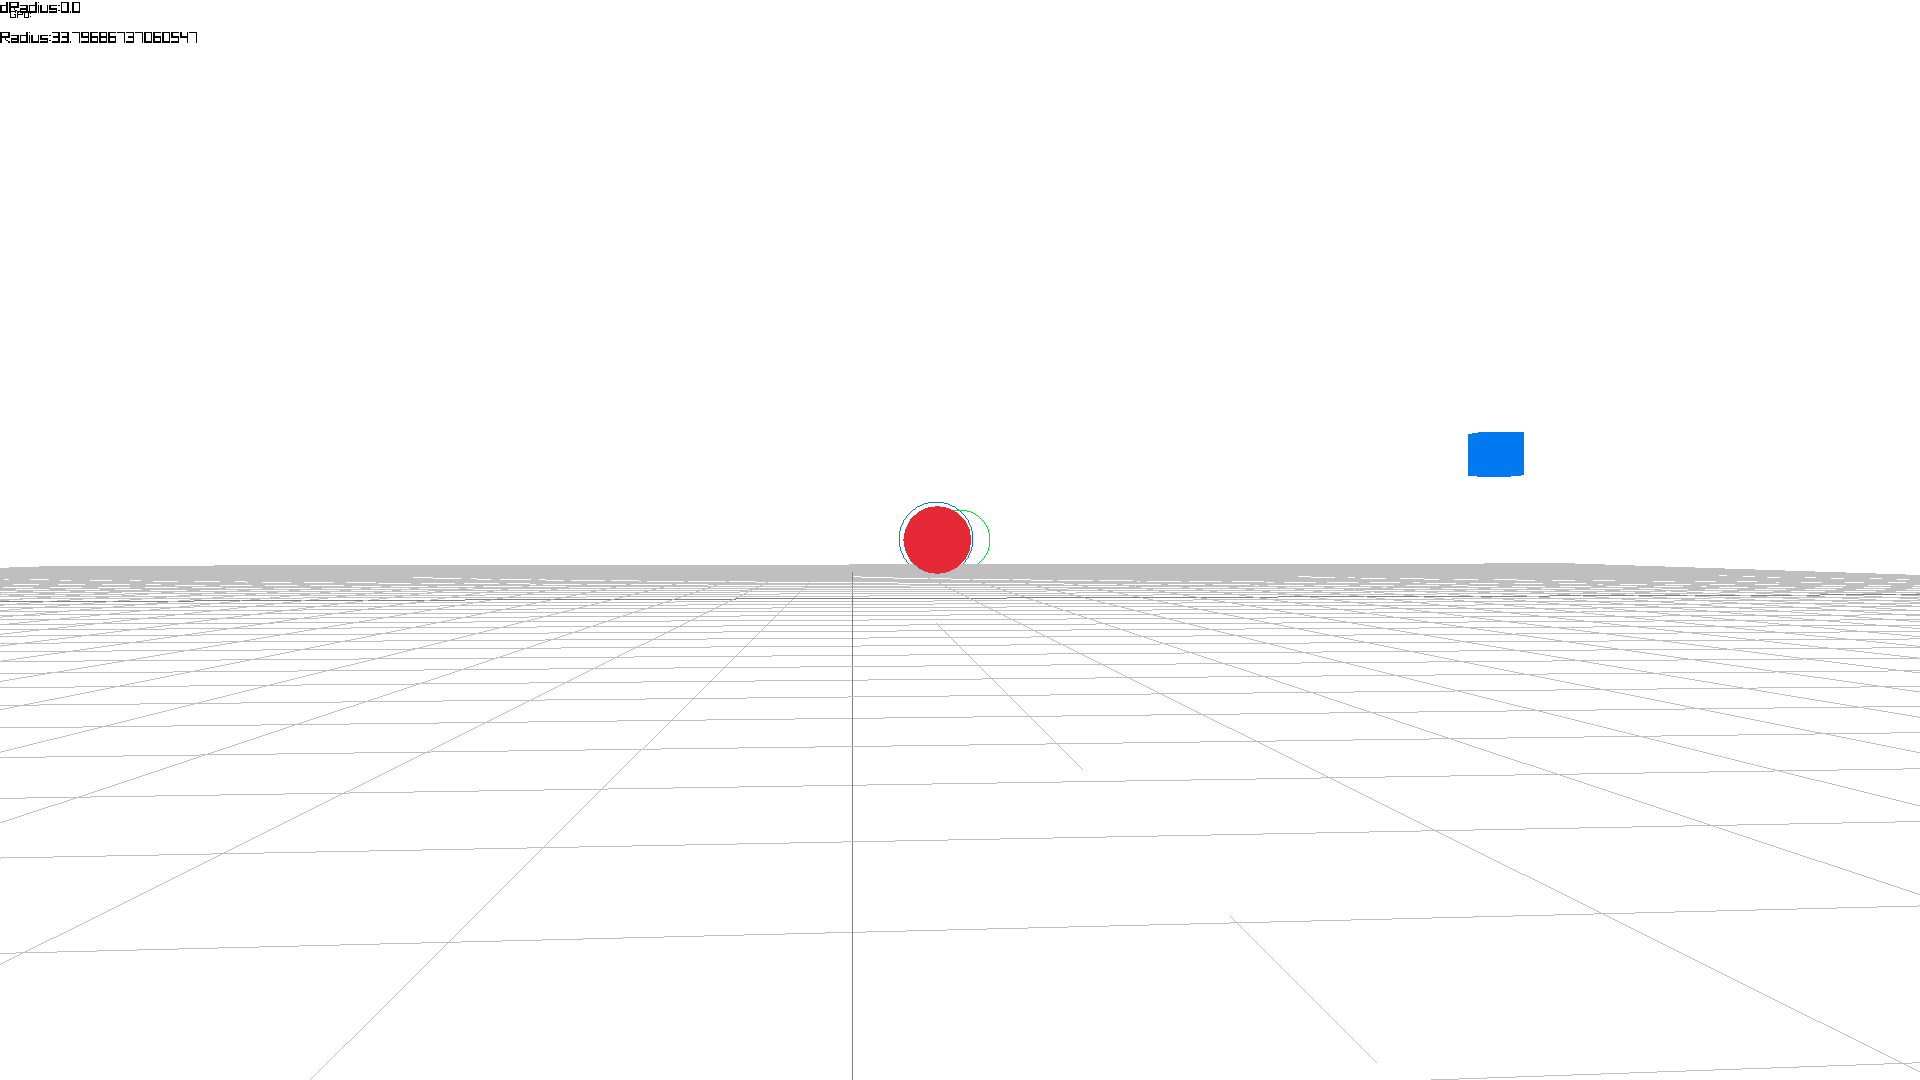
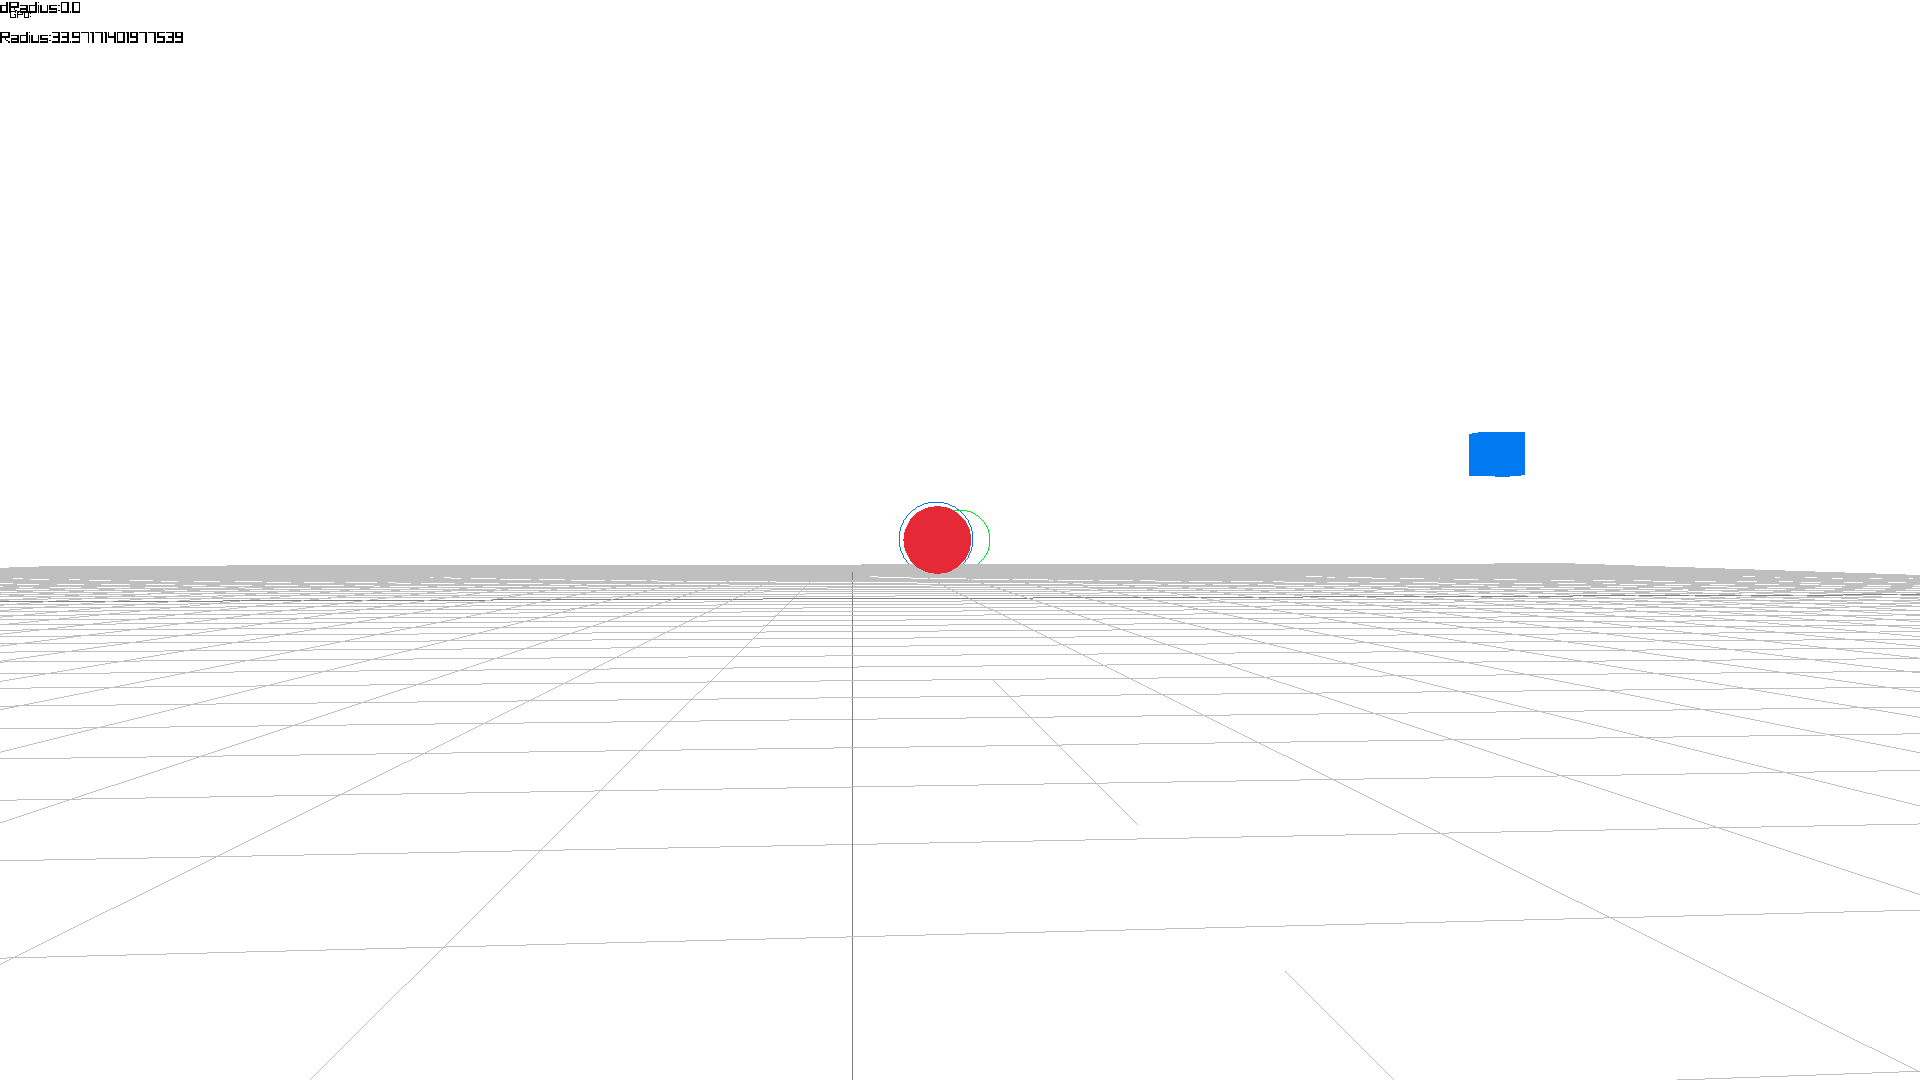
Update

diff --git a/drone_track.py b/drone_track.py
@@ -10,7 +10,7 @@ import control as ctrl
 
 Speed = 10
 Should_quit = False
-Track_Ball = False
+Track_Ball = True
 Abort = False
 Set_Radius = False
 font = None
@@ -50,7 +50,7 @@ def main():
 
     width, height = screen.get_size()
 
-    ball_tracker = bt.BallTracker(target=(width//2,height//2),min_r=0,max_r=100)
+    ball_tracker = bt.BallTracker(target=(width//2,height//2),min_r=20,max_r=90)
     # ball has to be center of screen in x achsis, tolerance 20px
     pid_x = ctrl.PIDControler(width//2,1,0.1,0.0,20)
     # ball has to be center of screen in y achsis,tolerance 20px
@@ -66,18 +66,21 @@ def main():
     depth = 0
     success = False
 
+    output_pid_x = 0
 
     while not Should_quit:
         #time.sleep(0.1)
         screen.fill(wincolor)
 
         do_input()
+ #       print("ABort:",Abort,"Quit:",Should_quit)
         if Abort:
             drone.emergency()
             sys.exit()
         if drone_conn:
             batt = drone.get_battery()
             temp = drone.get_temperature()
+#            print( "Batt:",batt)
 
             frame_read = drone.get_frame_read()
 
@@ -95,22 +98,31 @@ def main():
                     else:
                         pid_x.reset()
                     print(output_pid_x)
-                    if output_pid_x > 0:
-                        drone.rotate_clockwise(output_pid_x)
-                    else:
-                        drone.rotate_counter_clockwise(-output_pid_x)
+
+                    drone.rotate_clockwise(10)
+                    ## WHY DO YOU MAKE THE PROGRAM LAG????!!!!!?!??!?!?
+                  #  if output_pid_x > 0:
+                  #      drone.rotate_clockwise(output_pid_x)
+                  #  else:
+                  #      drone.rotate_counter_clockwise(-output_pid_x)
 
 
                     success = ball_tracker.calculate(img)
+                    #if ball_tracker.frame is not None:
+                    #    img=ball_tracker.frame
                     if Set_Radius:
                         print("setting radius:",ball_tracker.circle_radius)
                         pid_z.setpoint = int(ball_tracker.circle_radius)
                         Set_Radius = False
                     if success:
                         cv2.circle(img=img,center=(int(ball_tracker.circle_x),int(ball_tracker.circle_y)),radius=int(ball_tracker.circle_radius),color=(255,0,0),thickness=2)
+                        cv2.putText(img, f"R: {int(ball_tracker.circle_radius)}",                               
+                             (int(ball_tracker.circle_x) - 40, int(ball_tracker.circle_y) - 10),  # position slightly above the circle 
+                             cv2.FONT_HERSHEY_SIMPLEX,                                         
+                             0.6, (255, 0, 0), 2)  # font scale and color                      
+                                                                                 
 
 
-                img=  cv2.cvtColor(img,cv2.COLOR_BGR2RGB)
                 frame_surface = pg.surfarray.make_surface(img)
 
                 screen.blit(frame_surface, (0, 0))

diff --git a/balltracker.py b/balltracker.py
@@ -31,6 +31,8 @@ class ColorThreshold():
 class BallTracker:
     def __init__(self,target = (0,0),min_r=20,max_r=40):
         # Two ranges for red (since it wraps in HSV)
+        self.mask=None
+        self.frame=None
         self.lower_red1 = np.array([0, 100, 100])
         self.kernel = np.ones((3, 3), np.uint8)
         self.color_thr = ColorThreshold()
@@ -50,8 +52,9 @@ class BallTracker:
         self.height, self.width, c  = frame.shape
 
         blurred = cv2.GaussianBlur(frame, (13, 13), 0)
-        hsv = cv2.cvtColor(blurred, cv2.COLOR_BGR2HSV)
-
+        #hsv = cv2.cvtColor(blurred, cv2.COLOR_BGR2HSV)
+        hsv = cv2.cvtColor(blurred, cv2.COLOR_RGB2HSV)
+#
         lower1, upper1 = self.color_thr.getLowerRed()
         lower2, upper2 = self.color_thr.getUpperRed()
         
@@ -101,13 +104,12 @@ class BallTracker:
 
 
         # DRAW ROBOT
-            
-        mask = cv2.cvtColor(mask, cv2.COLOR_GRAY2RGB)
+            mask = cv2.cvtColor(mask, cv2.COLOR_GRAY2RGB)
 
         return True, frame, mask
 
     def calculate(self,frame):
-        success,_,_ = self.find(frame)
+        success,self.frame,self.mask = self.find(frame)
         if not success:
             return False
         self.dx = self.target[0]-self.circle_x

diff --git a/bat.py b/bat.py
@@ -1,0 +1,11 @@
+from djitellopy import tello
+drone_conn = True                    
+drone = tello.Tello()                
+print(drone)                         
+try:                                 
+    drone.connect()                  
+except:                              
+    drone_conn = False               
+    print("Error",drone,type(drone)) 
+
+print(drone.get_battery())
